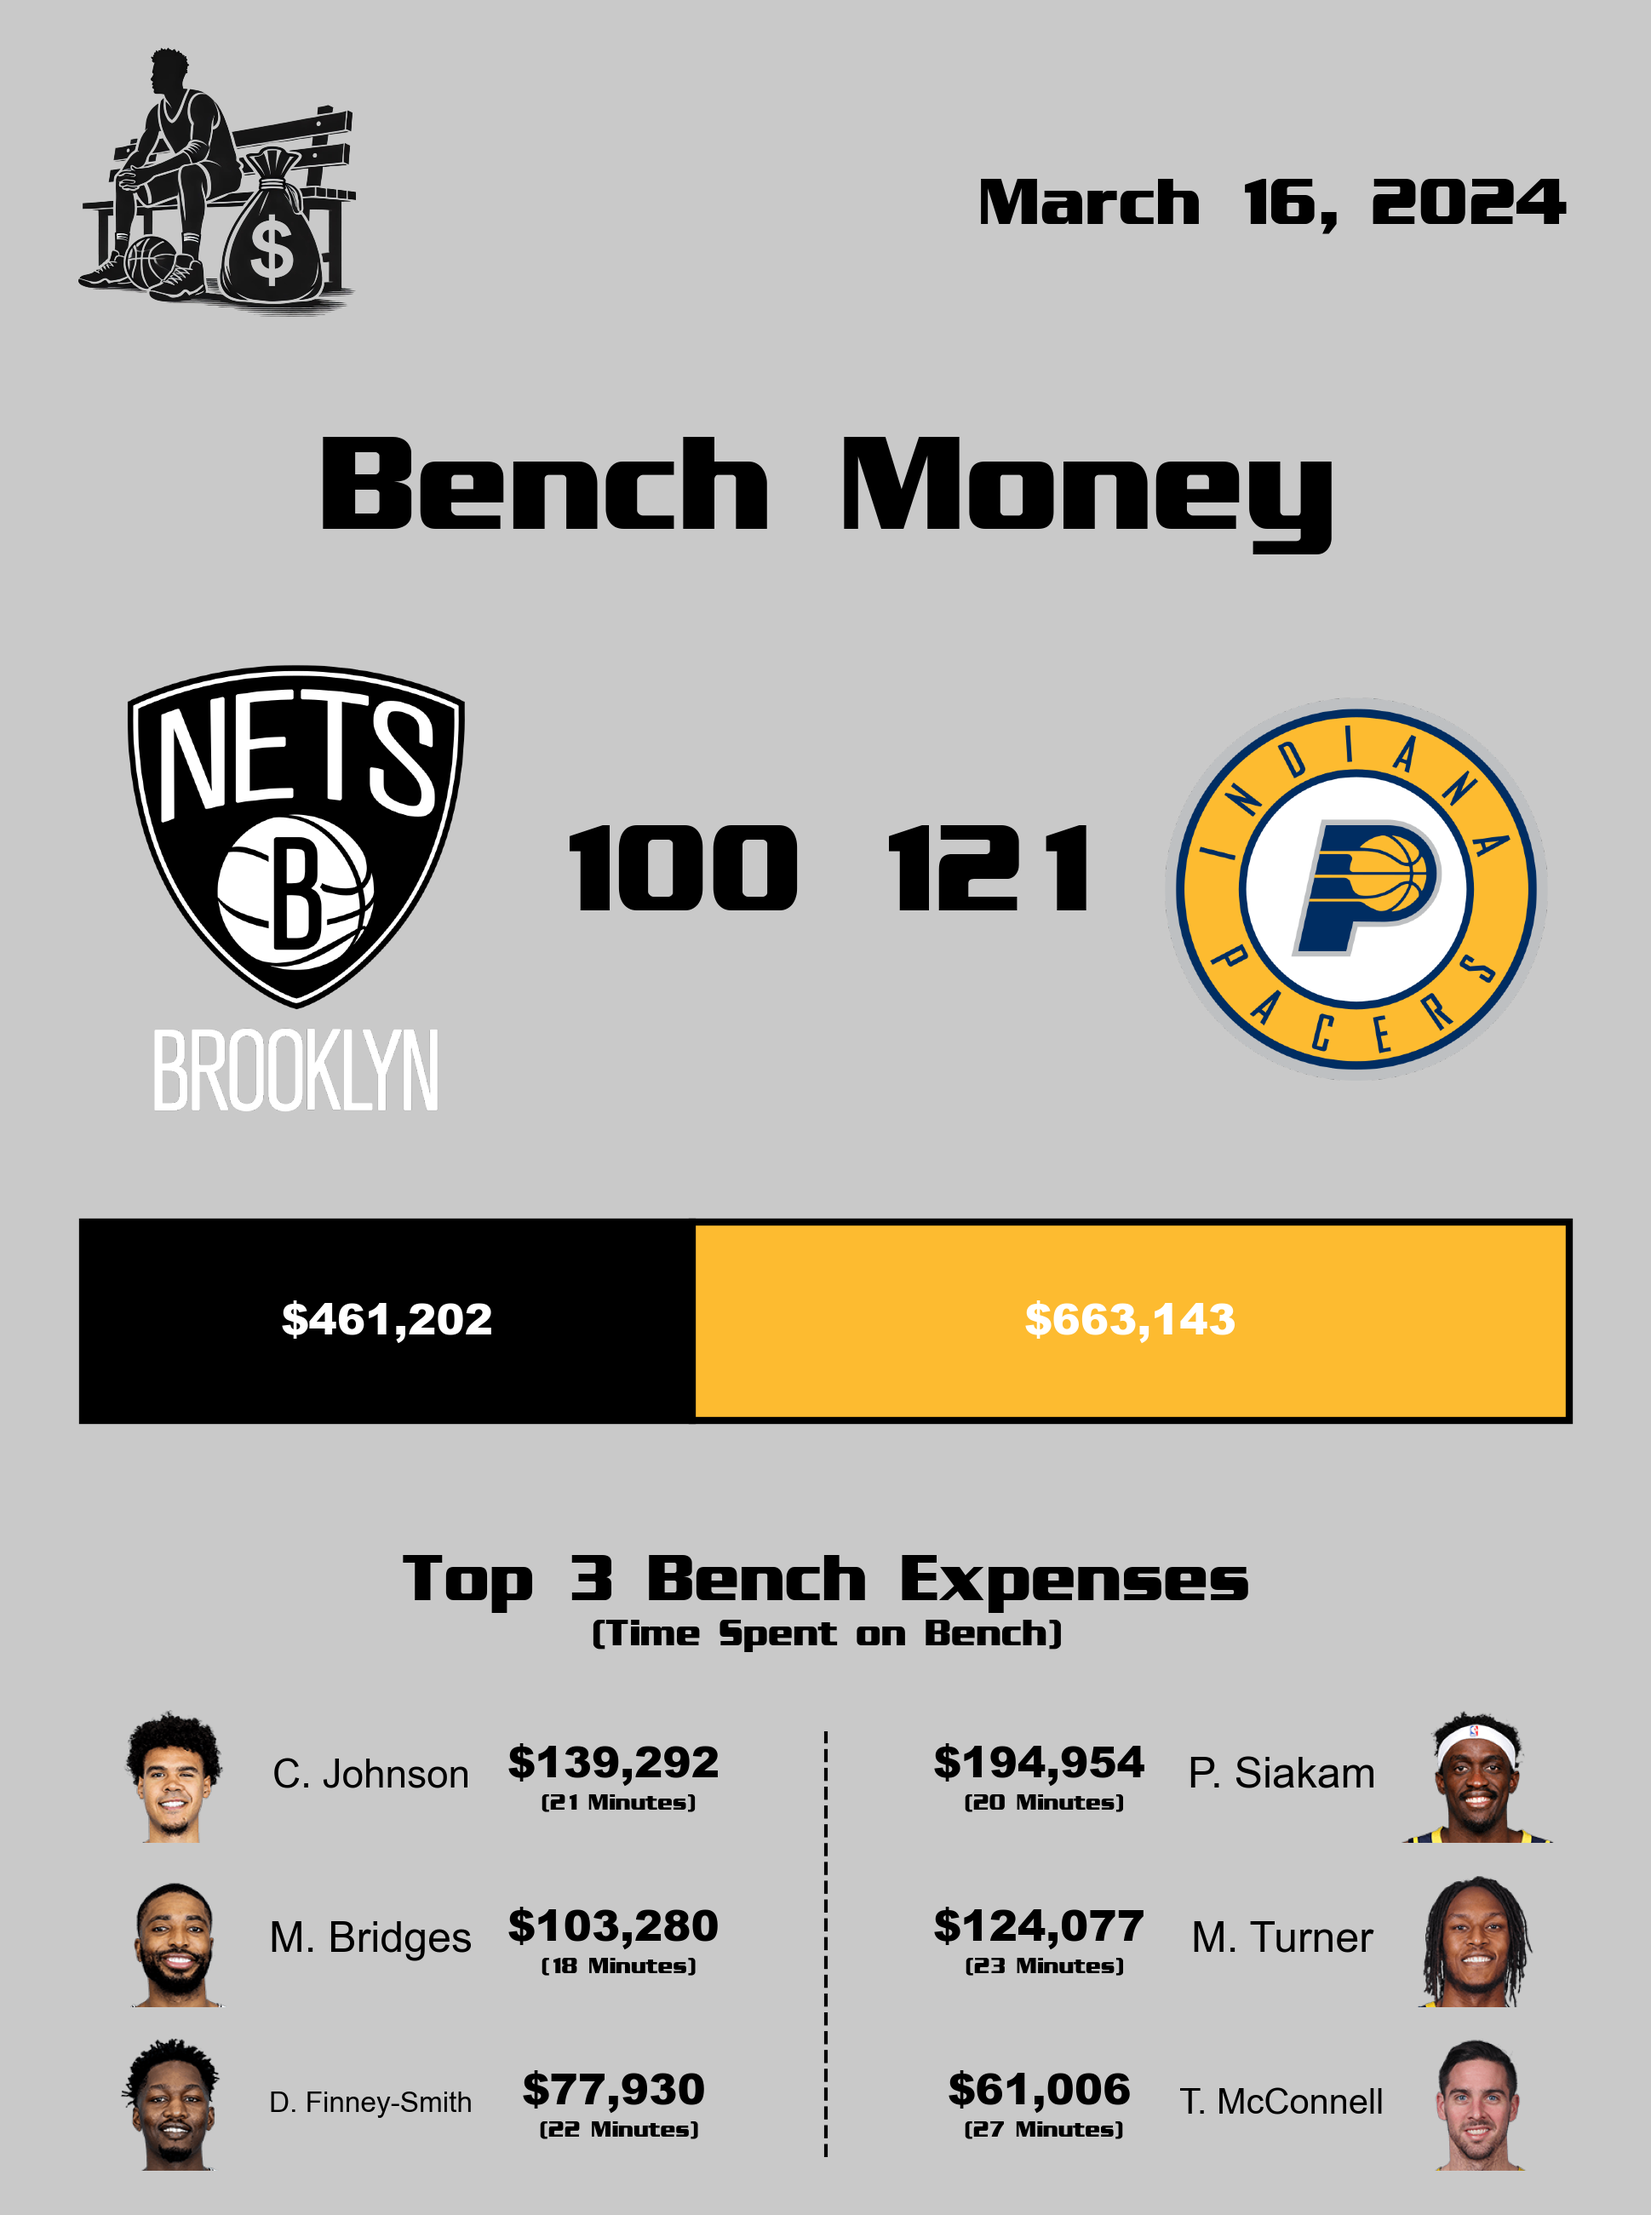
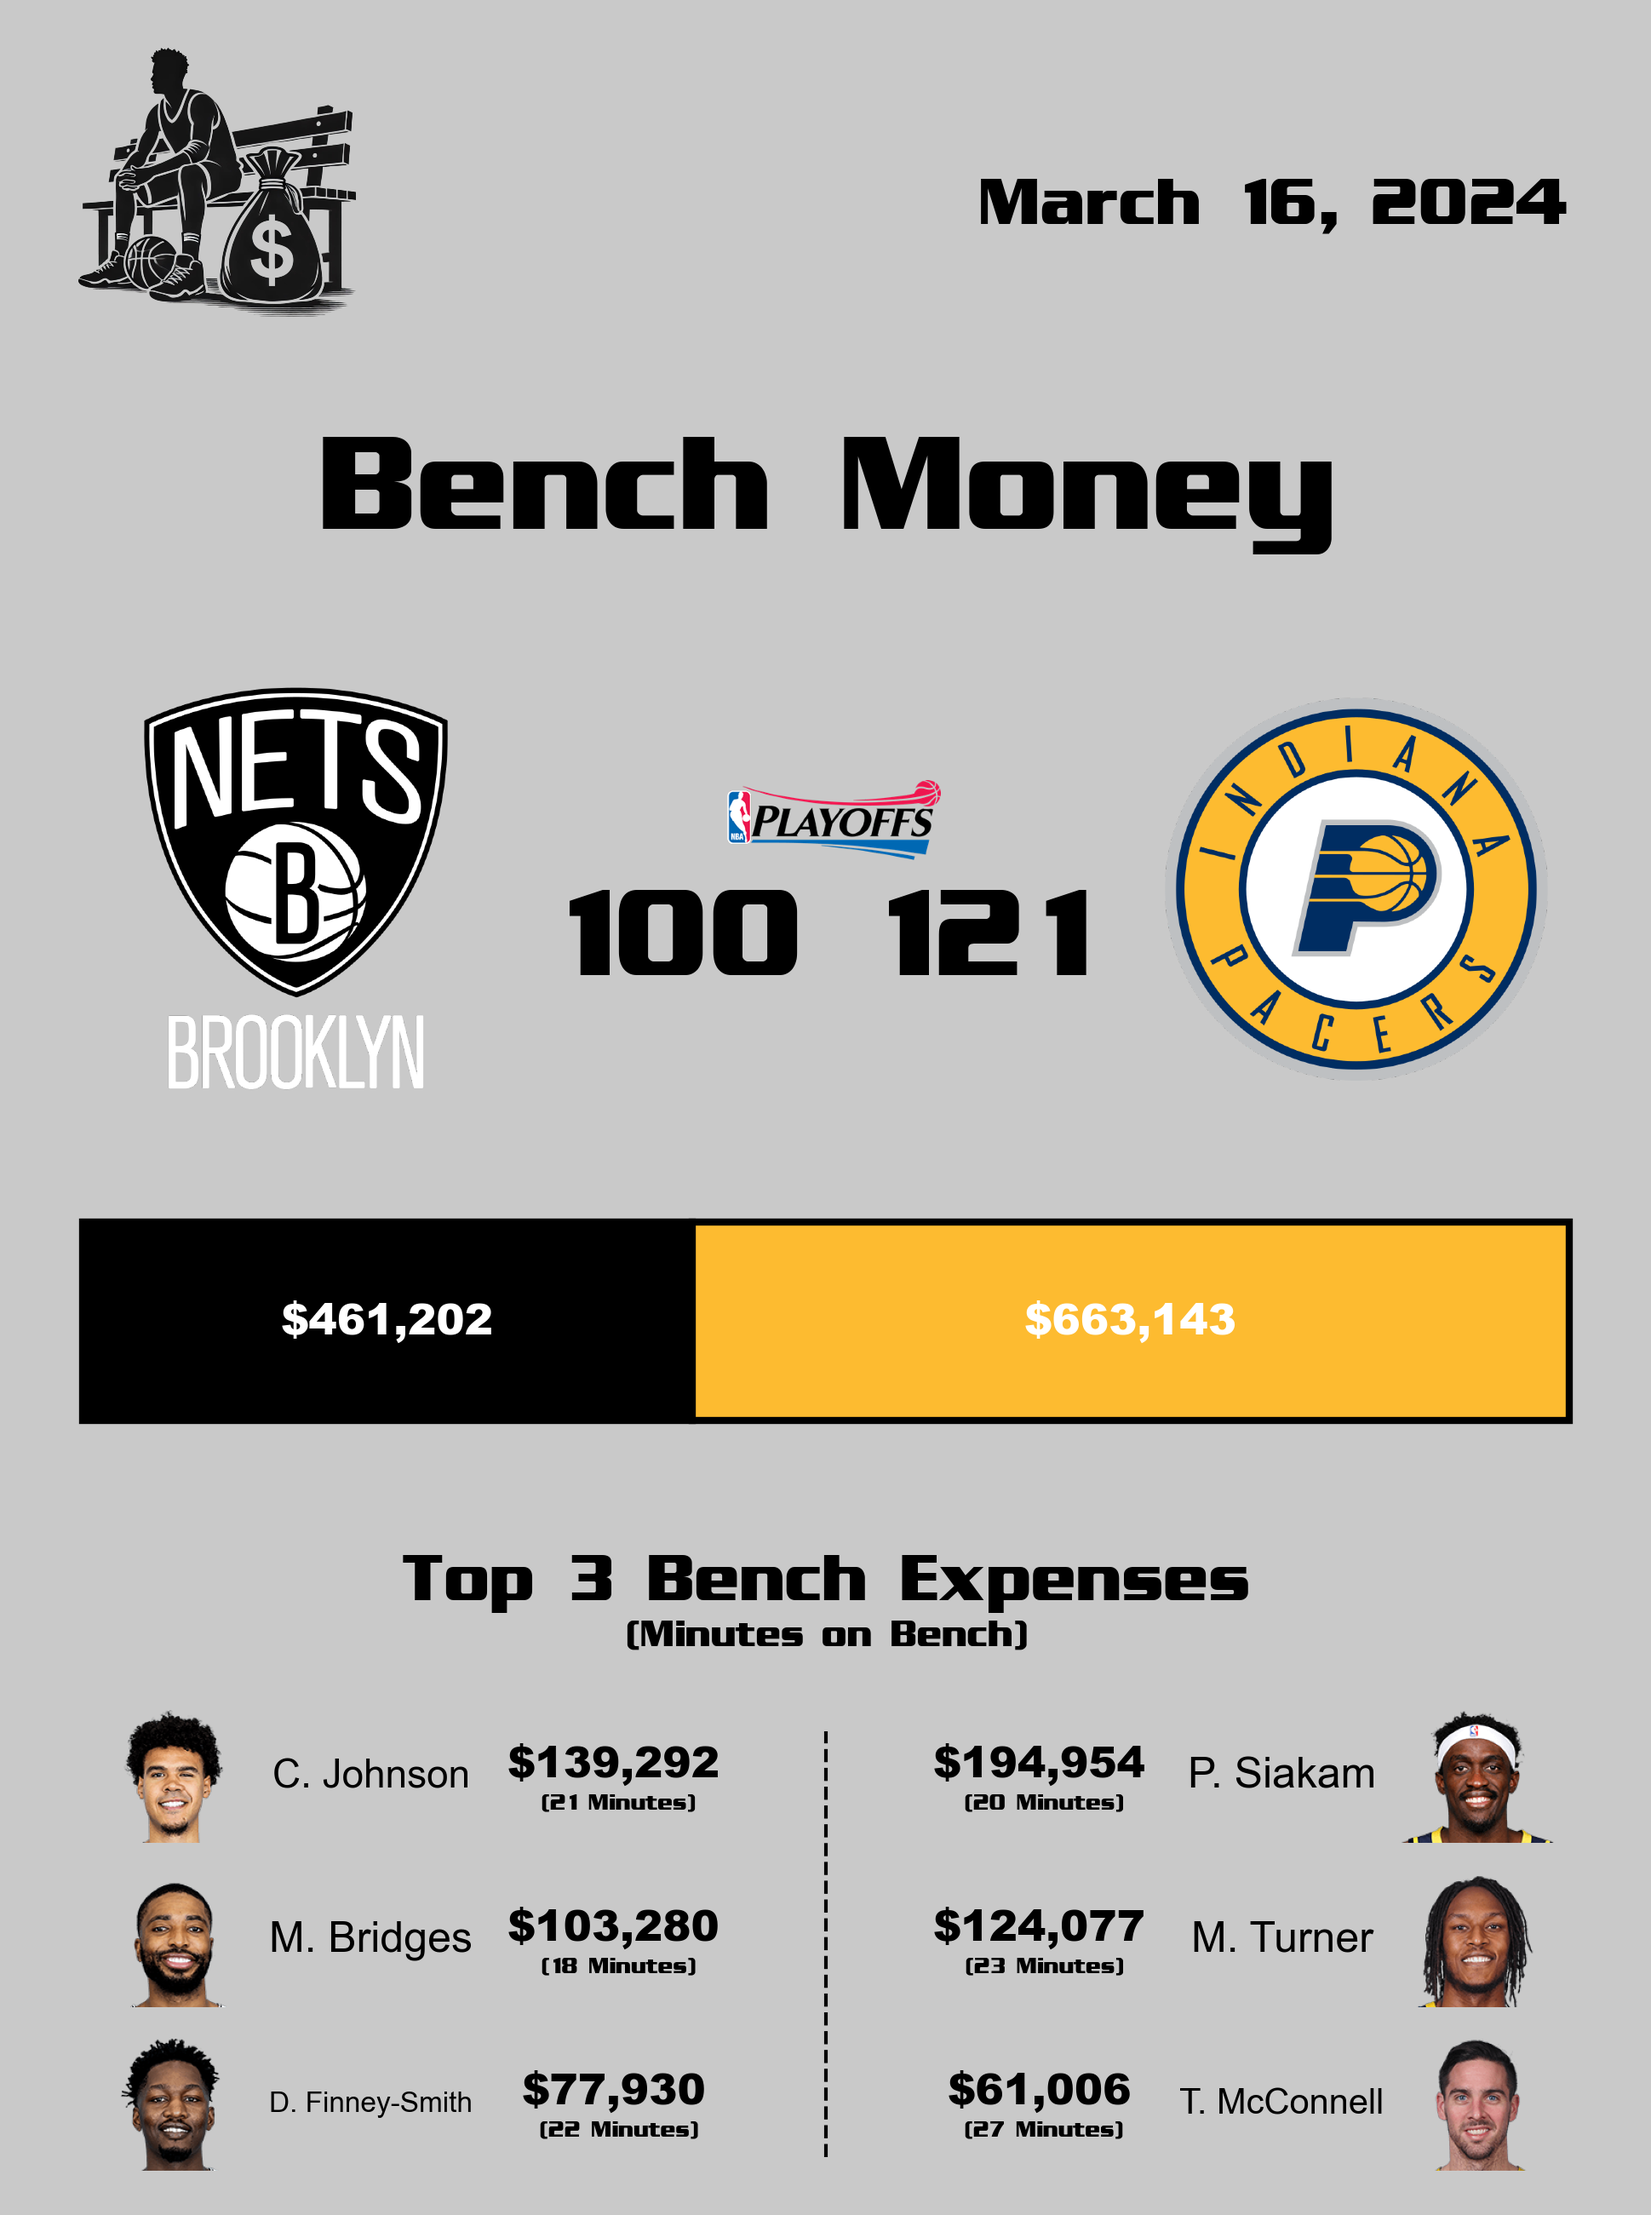
final commit

Changed region(s): [[0.0619, 0.2803, 0.2785, 0.4983], [0.3404, 0.3426, 0.6808, 0.4671], [0.3713, 0.7163, 0.6498, 0.7474]]

diff --git a/makeImage.py b/makeImage.py
@@ -47,6 +47,9 @@ logo_colors = {
     'WAS': {'primary': '#0D2240', 'secondary': '#CF0A2C'},  # Washington Wizards
 }
 
+playoffs = False
+finals = False
+
 def hex_to_rgb(hex_color):
     hex_color = hex_color.lstrip('#')
     return tuple(int(hex_color[i:i+2], 16) for i in (0, 2, 4))
@@ -89,7 +92,7 @@ def svg_to_png(svg_path, dpi=300):
 
 # Function to place the logo using OffsetImage and AnnotationBbox
 def place_logo(ax, logo_path, zoom=1.0, position=(0, 1)):
-    logo_img = Image.open(logo_path)
+    logo_img = Image.open(logo_path).convert('RGBA')
     imagebox = OffsetImage(logo_img, zoom=zoom)
     ab = AnnotationBbox(imagebox, position, frameon=False, xycoords='axes fraction', boxcoords="axes fraction", pad=0, box_alignment=(0, 1))
     ax.add_artist(ab)
@@ -192,9 +195,19 @@ def make_image(data):
 
     logo_team_a_x = 0.15
     logo_team_b_x = 0.85
-    # Add the scores with respective colors
-    logos_ax.text(logo_team_a_x+0.25, 0.4, str(team_a_score), ha='center', va='bottom', fontproperties=font_score)
-    logos_ax.text(logo_team_b_x-0.25, 0.4, str(team_b_score), ha='center', va='bottom', fontproperties=font_score)
+    
+    if(playoffs):
+        
+        if(finals):
+            place_logo(logos_ax, './nba_logos/finals.png', zoom=0.06, position=(.45, .8))
+        else:
+            place_logo(logos_ax, './nba_logos/playoffs.png', zoom=0.2, position=(.44, .75))
+
+        logos_ax.text(logo_team_a_x+0.25, 0.25, str(team_a_score), ha='center', va='bottom', fontproperties=font_score)
+        logos_ax.text(logo_team_b_x-0.25, 0.25, str(team_b_score), ha='center', va='bottom', fontproperties=font_score)
+    else:
+        logos_ax.text(logo_team_a_x+0.25, 0.4, str(team_a_score), ha='center', va='bottom', fontproperties=font_score)
+        logos_ax.text(logo_team_b_x-0.25, 0.4, str(team_b_score), ha='center', va='bottom', fontproperties=font_score)
 
     # Convert logos to arrays without resizing
     def get_image(image, zoom=0.9):  # Adjust the zoom to control display size
@@ -254,7 +267,7 @@ def make_image(data):
 
         # Add text underneath the bar graph
     heading = 'Top 3 Bench Expenses'
-    subText = '(Time Spent on Bench)'
+    subText = '(Minutes on Bench)'
     team_a_players = df['Players'][0]
     team_b_players = df['Players'][1]
 
@@ -378,4 +391,3 @@ def make_image(data):
     plt.savefig(savePath, dpi=dpi, bbox_inches='tight', pad_inches=0.1)
     plt.close(fig)
     return savePath
-    

diff --git a/runScript.py b/runScript.py
@@ -17,12 +17,12 @@ def update_to_next_day(date_str):
     return next_day_str
 
 
-webScrape('2023') #This is for season 2023-2024 // Need to change to create for seasons before or after
+# webScrape('2023') #This is for season 2023-2024 // Need to change to create for seasons before or after
 
 # current_date = datetime.now().date()
-current_date = '2024-03-19'
+current_date = '2024-4-19'
 # formatted_date = current_date.strftime("%Y-%m-%d")
-date = '2024-03-16'  # YYYY-MM-DD format
+date = '2024-2-20'  # YYYY-MM-DD format
 while(current_date != date):
     date_obj = datetime.strptime(date, '%Y-%m-%d')
     formatted_date = date_obj.strftime("%B %d, %Y")
@@ -44,7 +44,7 @@ while(current_date != date):
             'Score': data['Score'],
         }
         postToTwitter(imagePath, caption)
-        exit()
+        # exit()
     
     date = next_day_date = update_to_next_day(date)
 

diff --git a/twitter.py b/twitter.py
@@ -70,4 +70,5 @@ def postToTwitter(gameImage, caption):
     text = '\n'.join(text_parts)
     # Send Tweet with Text and media ID
     client.create_tweet(text=text, media_ids=[media_id])
-    print("Tweeted!")
+    tweeted = f'Tweeted! {caption["Teams"][0]} vs {caption["Teams"][1]}'
+    print(tweeted)
